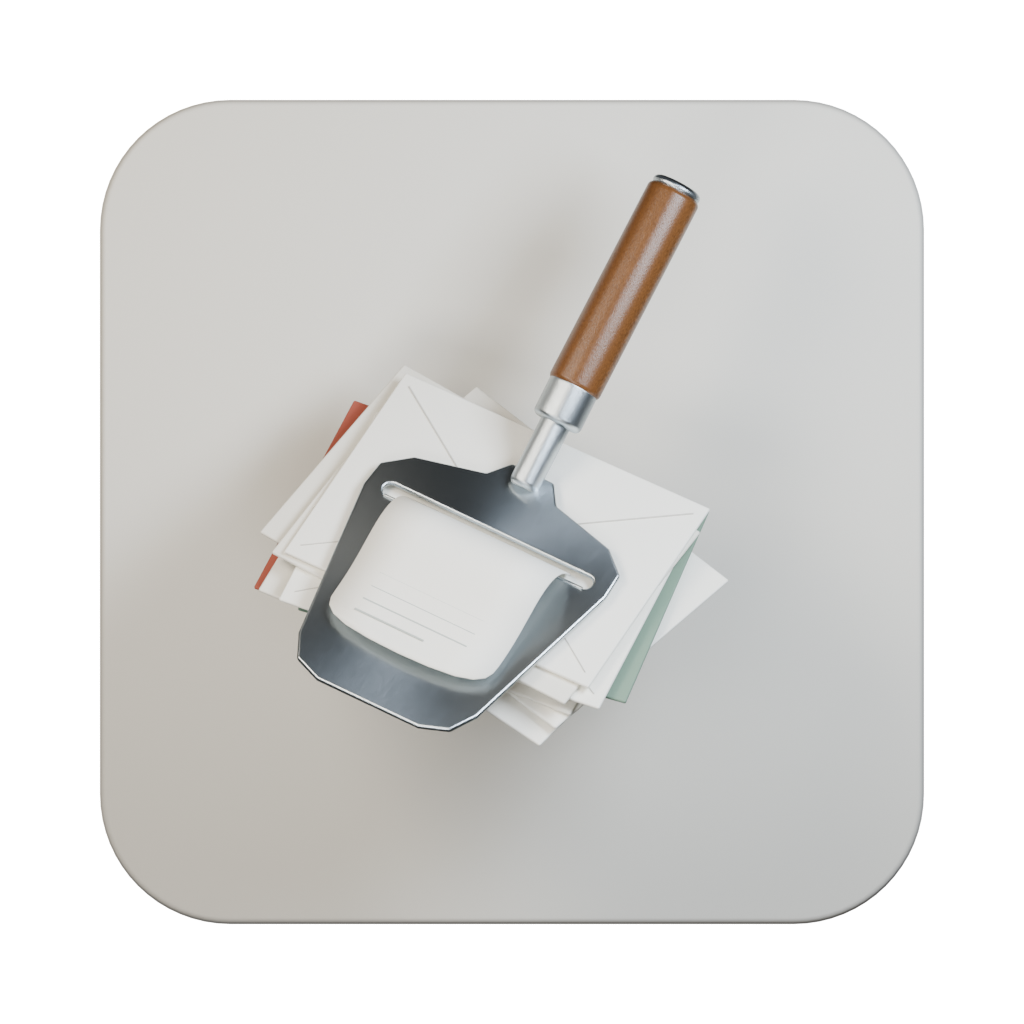
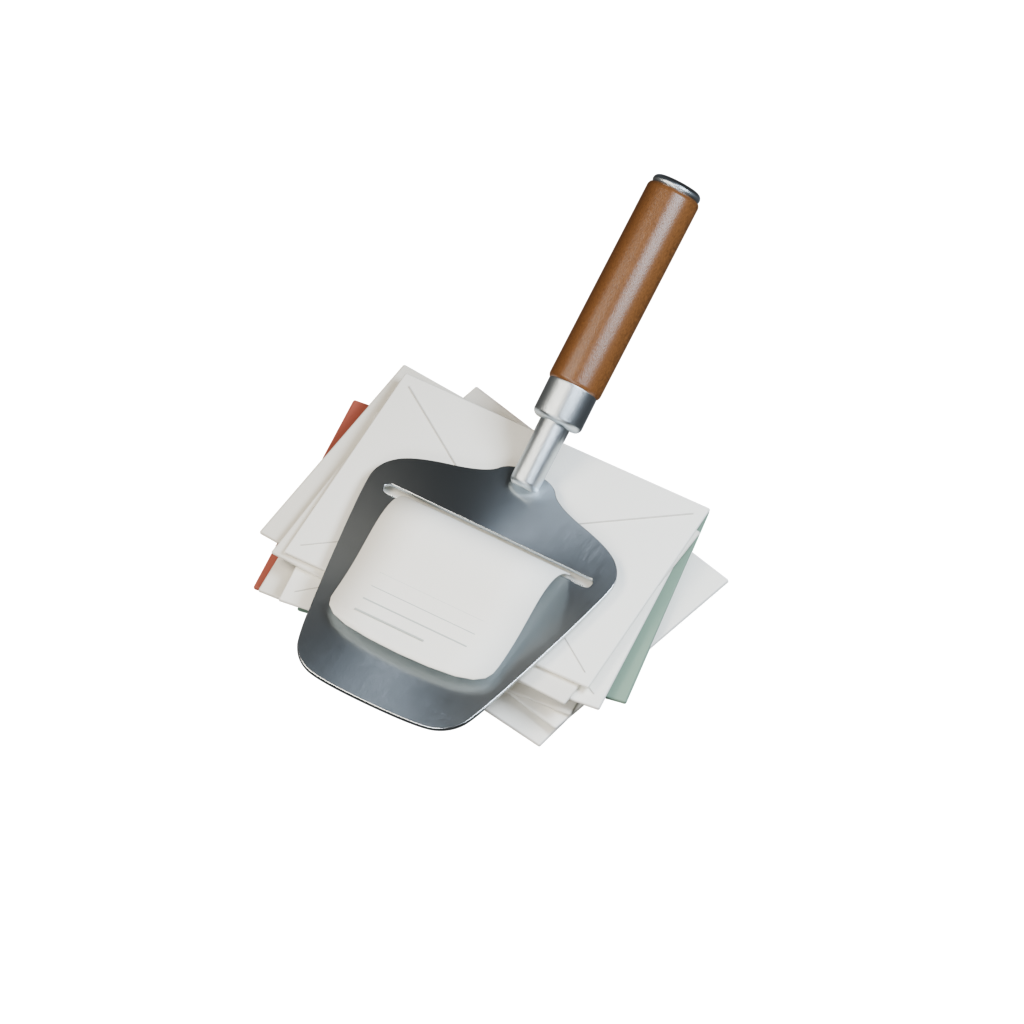
Refine blade curvature and steel edge

diff --git a/brand/app-icon/3d/astra.py b/brand/app-icon/3d/astra.py
@@ -137,13 +137,21 @@ for j in range(3):
 outline = [(-.18,.86),(-.30,.69),(-.83,.55),(-1.02,.38),(-1.03,.15),
            (-.76,-1.25),(-.65,-1.46),(-.43,-1.55),(.43,-1.55),(.65,-1.46),
            (.76,-1.25),(1.03,.15),(1.02,.38),(.83,.55),(.30,.69),(.18,.86)]
-z0=.43
-verts=[(x,y,z0+z) for z in (0,.045) for x,y in outline]
+# Corner cutting makes a continuous pressed outline without polygonal shoulders.
+for _ in range(4):
+    outline = [point for a,b in zip(outline, outline[1:]+outline[:1])
+               for point in ((.75*a[0]+.25*b[0], .75*a[1]+.25*b[1]),
+                             (.25*a[0]+.75*b[0], .25*a[1]+.75*b[1]))]
+# At 40 mm per scene unit this is 1.2 mm steel; keep the original top surface.
+z0=.445
+thickness=.030
+verts=[(x,y,z0+z) for z in (0,thickness) for x,y in outline]
 n=len(outline)
 faces=[tuple(reversed(range(n))),tuple(range(n,2*n))]+[(i,(i+1)%n,(i+1)%n+n,i+n) for i in range(n)]
 blade=mesh('Tapered steel blade',verts,faces,steel)
 # Boolean makes an actual aperture, not a dark line painted on solid steel.
-slot=box('Slot cutter',(0,.20,z0+.03),(1.76,.12,.4),steel,.055)
+slot=box('Slot cutter',(0,.20,z0+.015),(1.76,.09,.4),steel,.044)
+slot.modifiers[0].segments=16
 bpy.context.view_layer.objects.active=slot
 bpy.ops.object.modifier_apply(modifier=slot.modifiers[0].name)
 bpy.context.view_layer.objects.active=blade
@@ -152,8 +160,15 @@ cut.operation='DIFFERENCE'
 cut.object=slot
 bpy.ops.object.modifier_apply(modifier=cut.name)
 bpy.data.objects.remove(slot,do_unlink=True)
-bevel(blade,.035,5)
-line('Polished cutting edge',[(-.84,.13,.479),(.84,.13,.479)],steel,.012)
+polished = material('Polished steel edge', (.65,.69,.72), .16, 1)
+blade.data.materials.append(polished)
+bevel(blade,.006,6)
+blade.modifiers[0].material=1
+blade.modifiers[0].harden_normals=True
+blade.modifiers[1].keep_sharp=True
+for face in blade.data.polygons:
+    face.use_smooth = abs(face.normal.z) < .9
+line('Polished cutting edge',[(-.83,.155,.477),(.83,.155,.477)],polished,.004)
 
 
 def between(name,a,b,radius,mat):
@@ -212,17 +227,20 @@ solid=plate.modifiers.new('Plate depth','SOLIDIFY'); solid.thickness=.12
 bevel(plate,.045,4)
 plate.rotation_euler=cam.rotation_euler
 plate.location=Vector((0,.55,.35)) + cam.rotation_euler.to_matrix() @ Vector((0,0,-1.55))
-assert max(abs(x) for x,y in outline[:5]) > max(abs(x) for x,y in outline[6:10])
+assert len(outline)==256 and .025 <= thickness <= .0375
+assert max(abs(x) for x,y in outline if y>0) > max(abs(x) for x,y in outline if y<-1.3)
 assert len(profile)>3 and scene.render.resolution_x==1024
 for variant,color in [('light',(.79,.76,.68)),('dark',(.027,.035,.032))]:
     plate_mat.node_tree.nodes.get('Principled BSDF').inputs['Base Color'].default_value=(*color,1)
     scene.render.filepath=str(out.with_name(out.stem+'-'+variant+'.png'))
     bpy.ops.render.render(write_still=True)
-# Main proposal is the light plate. Blender writes the thumbnail with the same color transform.
+# The main asset is an isolated transparent object; the thumbnail previews the light icon.
+plate.hide_render=True
+scene.render.filepath=str(out)
+bpy.ops.render.render(write_still=True)
 image=bpy.data.images.load(str(out.with_name(out.stem+'-light.png')))
 assert len(image.pixels) == 1024 * 1024 * 4
 image.pixels[0]  # Load pixels before changing the source path.
-image.filepath_raw=str(out); image.save()
 image.scale(32,32)
 image.filepath_raw=str(out.with_name(out.stem+'-32.png')); image.save()
 assert all(out.with_name(out.stem+s+'.png').exists() for s in ('','-light','-dark','-32'))
